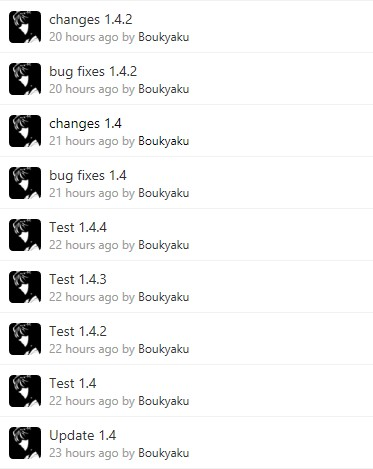
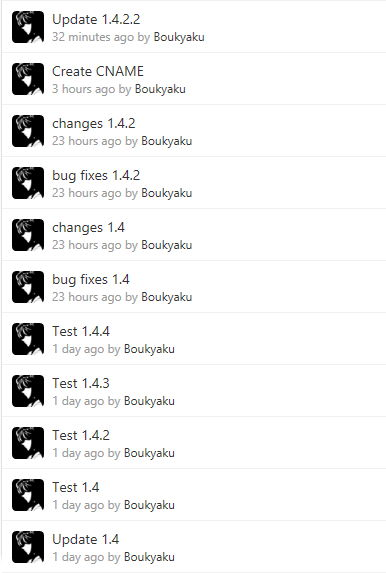
bug fixes 1.4.2.3
delet google,

Changed region(s): [[0.0, 0.0, 0.5308, 0.9851]]

diff --git a/_includes/scripts.html b/_includes/scripts.html
@@ -69,21 +69,4 @@ $("a#click-pages").click(function(){
   })( jQuery, window );
 </script>
 {% endif %}
-{% if site.google_analytics %}
-<!-- Asynchronous Google Analytics snippet -->
-<script>
-  var _gaq = _gaq || [];
-  var pluginUrl = 
- '//www.google-analytics.com/plugins/ga/inpage_linkid.js';
-  _gaq.push(['_require', 'inpage_linkid', pluginUrl]);
-  _gaq.push(['_setAccount', '{{ site.google_analytics }}']);
-  _gaq.push(['_trackPageview']);
-
-  (function() {
-    var ga = document.createElement('script'); ga.type = 'text/javascript'; ga.async = true;
-    ga.src = ('https:' == document.location.protocol ? 'https://' : 'http://') + 'stats.g.doubleclick.net/dc.js';
-    var s = document.getElementsByTagName('script')[0]; s.parentNode.insertBefore(ga, s);
-  })();
-</script>
-{% endif %}
 {% if page.comments %}{% include duoshuo_comments.html %}{% endif %}

diff --git a/assets/css/style.css b/assets/css/style.css
@@ -1,7 +1,7 @@
-@import url(http://fonts.googleapis.com/css?family=Source+Sans+Pro:200,300,400,700);
-@import url(http://fonts.googleapis.com/css?family=Merriweather:400,300,400italic,700);
-@import url(http://fonts.googleapis.com/css?family=Raleway:400,300,100,700);
-@import url(http://fonts.googleapis.com/css?family=Sacramento);
+@import url(http://fonts.useso.com/css?family=Source+Sans+Pro:200,300,400,700);
+@import url(http://fonts.useso.com/css?family=Merriweather:400,300,400italic,700);
+@import url(http://fonts.useso.com/css?family=Raleway:400,300,100,700);
+@import url(http://fonts.useso.com/css?family=Sacramento);
 
 /* ------------------------ */
 /* GENERAL TYPOGRAPHY RULES */

diff --git a/_includes/head.html b/_includes/head.html
@@ -21,7 +21,6 @@
 <meta property="og:site_name" content="{{ site.title }}">
 {% if page.imagefeature %}<meta property="og:image" content="{{ site.url }}/images/{{ page.imagefeature }}">{% else %}<meta property="og:image" content="{{ site.url }}/images/{{ site.default_bg }}">{% endif %}
 
-{% if site.google_verify %}<meta name="google-site-verification" content="{{ site.google_verify }}">{% endif %}
 {% if site.bing_verify %}<meta name="msvalidate.01" content="{{ site.bing_verify }}">{% endif %}
 
 {% capture canonical %}{{ site.url }}{% if site.permalink contains '.html' %}{{ page.url }}{% else %}{{ page.url | remove:'index.html' | strip_slash }}{% endif %}{% endcapture %}

diff --git a/assets/js/plugins/simpleJekyllSearch.js b/assets/js/plugins/simpleJekyllSearch.js
@@ -12,9 +12,9 @@
             jsonFormat      : 'title,category,desc,url,date,shortdate',
             template        : '<a href="{url}" title="{title}">{title}</a>',
             searchResults   : '.results',
-            searchResultsTitle   : '<h4>Search results</h4>',
+            searchResultsTitle   : '<h4>搜索结果</h4>',
             limit           : '10',
-            noResults       : '<p>Oh shucks<br/><small>Nothing found :(</small></p>'
+            noResults       : '<p>Oh shucks<br/><small>神马都木有找到 :(</small></p>'
         }, options);
 
         var properties = settings.jsonFormat.split(',');

diff --git a/assets/js/scripts.min.js b/assets/js/scripts.min.js
@@ -764,9 +764,9 @@ function (a) {
             jsonFormat: "title,category,desc,url,date,shortdate",
             template: '<a href="{url}" title="{title}">{title}</a>',
             searchResults: ".results",
-            searchResultsTitle: "<h4>Search results</h4>",
+            searchResultsTitle: "<h4>搜索结果</h4>",
             limit: "10",
-            noResults: "<p>Oh shucks<br/><small>Nothing found :(</small></p>"
+            noResults: "<p>Oh shucks<br/><small>神马都木有找到 :(</small></p>"
         }, b),
             h = g.jsonFormat.split(","),
             i = [],

diff --git a/documentation.md b/documentation.md
@@ -25,7 +25,7 @@ image:
 	<img src="{{ site.url }}/images/v1.4.2.2.jpg">
 </figure>
 
-##
+# #
 
 版本：1.3.2
 
@@ -41,7 +41,7 @@ image:
 	<img src="{{ site.url }}/images/v1.3.2.jpg">
 </figure>
 
-##
+# #
 
 版本：1.2.4.4.2
 
@@ -60,7 +60,7 @@ image:
 	<img src="{{ site.url }}/images/v1.2.4.4.2.jpg">
 </figure>
 
-##
+# #
 
 版本：1.1
 
@@ -77,7 +77,7 @@ image:
 	<img src="{{ site.url }}/images/v1.1.jpg">
 </figure>
 
-##
+# #
   
 版本：1.0
 
@@ -88,7 +88,7 @@ image:
 
 - 无更新
 
-吐槽：刚把窝挪过来，各种组件都不齐全，凑合着看吧（捂脸……），不过也幸亏搭建在了这个平台上我才能远离php，说实话吧，让我这个数月未碰过代码的人来搭建这个个博客，想想还有些小激动呢。。。
+吐槽：刚把窝挪过来，各种组件都不齐全，凑合着看吧（捂脸……），不过也幸亏搭建在了这个平台上我才能远离php，说实话吧，让我这个数月未碰过代码的人来搭建这个博客，想想还有些小激动呢。。。
 
  <figure>
 	<img src="{{ site.url }}/images/v1.0.jpg">

diff --git a/_posts/2014-11-19-Doudles-for-SkyLab.md b/_posts/2014-11-19-Doudles-for-SkyLab.md
@@ -9,7 +9,7 @@ imagefeature: SkyLab2014_Wallpaper_2.jpg
 comments: true
 mathjax: 
 ---
-自SkyLab的2014纳新至今部分作品，由Ps和Ai制作，包括宣传单、桌面壁纸、Logo以及10周年邀请函，话说SlyLab的确是极佳的练手题材呢^_~
+自SkyLab的2014纳新至今部分作品，由Ps和Ai制作，包括宣传单、桌面壁纸、Logo以及10周年邀请函，话说SkyLab的确是极佳的练手题材呢^_~
 
 <figure class="third">
 	<a href="{{ site.url }}/images/gallery1/Photo_1.jpg"><img src="{{ site.url }}/images/gallery1/Photo_1m.jpg"></a>

diff --git a/xinge-ban.md b/xinge-ban.md
@@ -1,6 +1,6 @@
 ---
 layout: page
-permalink: /Westside/index.html
+permalink: /xinge-ban/index.html
 title: XingE Ban
 tags: [XingE Ban, Boukyaku]
 image:
